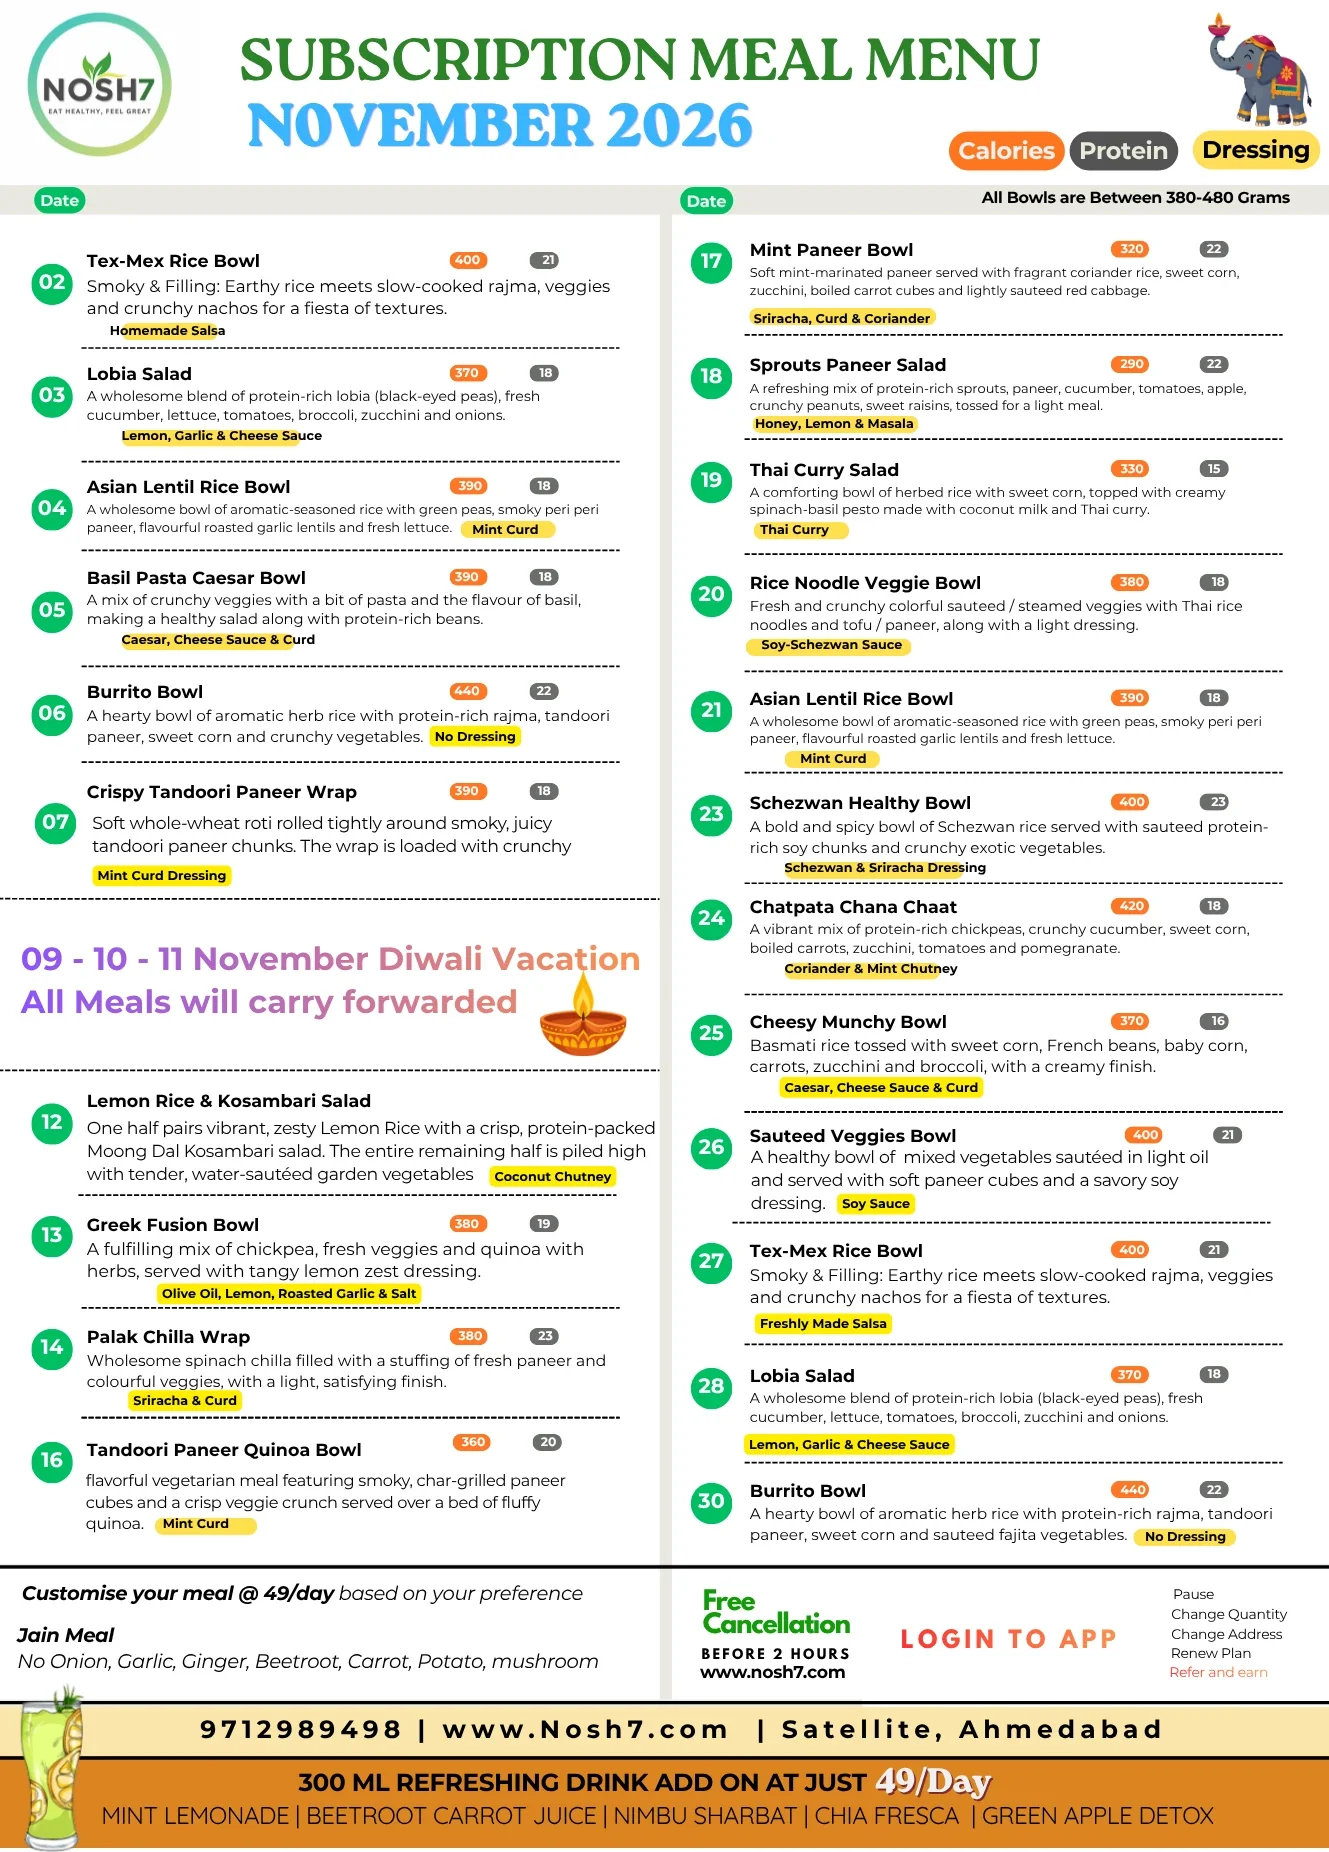
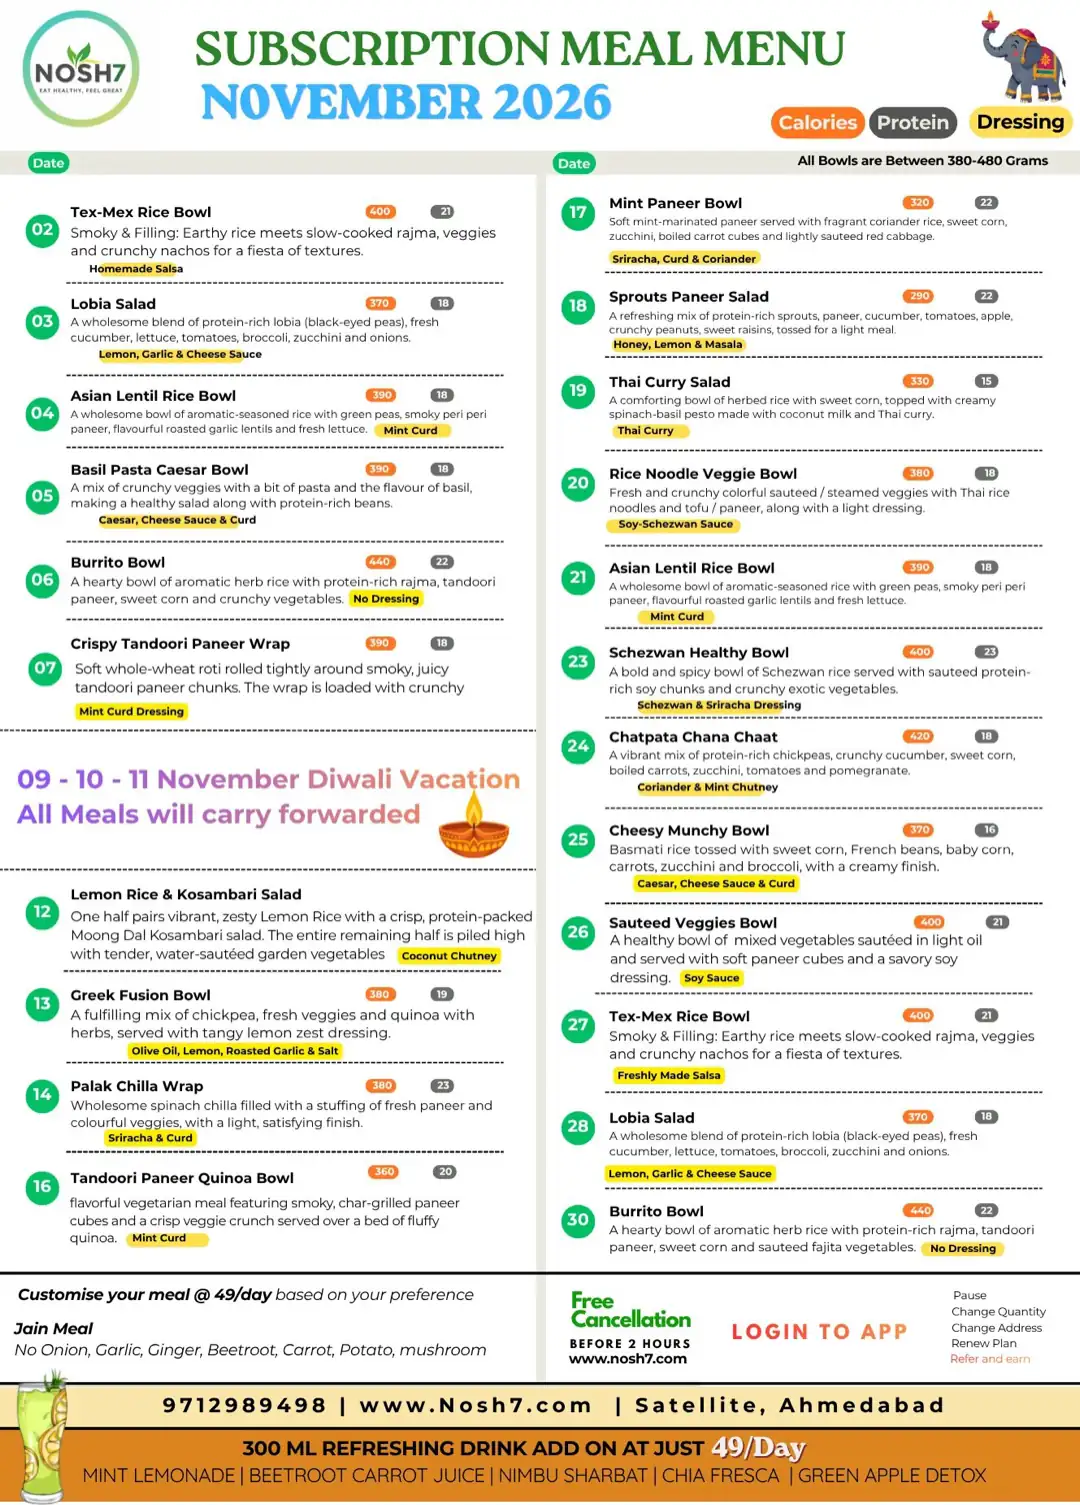
SEO polish: image sizes, lighter menu image, shorter titles and descriptions
- width/height on badge, logo and menu images (home, subscription, menu page)
- November menu WebP 333 KB -> 170 KB at 1080px; menu uploader now makes the
  web image 1080px under 170 KB and writes its size on the subscription page too
- 5 titles cut to 60 chars or less, 13 descriptions to 160 or less

diff --git a/subscription.html b/subscription.html
@@ -577,7 +577,7 @@
 
 <nav>
   <a class="nl" href="/">
-    <img decoding="async" src="/assets/logo.webp" alt="NOSH7 – Eat Healthy Feel Great"/>
+    <img decoding="async" src="/assets/logo.webp" width="196" height="196" alt="NOSH7 - Eat Healthy Feel Great"/>
     <div class="nl-t">NOSH7 <span>Eat Healthy, Feel Great</span></div>
   </a>
   <a href="/" class="nav-back">← Back to Home</a>
@@ -736,11 +736,11 @@
   <p style="text-align:center;margin-top:1.8rem;font-family:'IBM Plex Sans',sans-serif;font-size:.82rem;color:var(--tm);letter-spacing:.03em;"><svg class="ico" viewBox="0 0 24 24" fill="currentColor"><path d="M12 2l2.9 6.26 6.6.96-4.8 4.68 1.13 6.6L12 17.27 5.97 20.5 7.1 13.9 2.3 9.22l6.6-.96L12 2z"/></svg> Rated 4.8 / 5 &nbsp;·&nbsp; Trusted by working professionals since 2023</p>
   <div class="trust-strip" aria-label="Certification and secure payments">
     <div class="ts-item">
-      <span class="ts-chip" style="background:#fff;border:1px solid #eee;border-radius:10px;padding:5px 9px;display:flex;align-items:center;"><img src="/assets/fssai-logo.svg" alt="FSSAI logo" style="display:block;height:24px;width:auto;" decoding="async" /></span>
+      <span class="ts-chip" style="background:#fff;border:1px solid #eee;border-radius:10px;padding:5px 9px;display:flex;align-items:center;"><img src="/assets/fssai-logo.svg" width="82" height="24" alt="FSSAI logo" style="display:block;height:24px;width:auto;" decoding="async" /></span>
       <span class="ts-txt"><span class="ts-title">FSSAI Registered Kitchen</span><span class="ts-sub">Lic. No. 20723038000600</span></span>
     </div>
     <div class="ts-item">
-      <span class="ts-chip" style="background:#fff;border:1px solid #eee;border-radius:10px;padding:5px 9px;display:flex;align-items:center;"><img src="/assets/razorpay-logo.svg" alt="Razorpay logo" style="display:block;height:24px;width:auto;" decoding="async" /></span>
+      <span class="ts-chip" style="background:#fff;border:1px solid #eee;border-radius:10px;padding:5px 9px;display:flex;align-items:center;"><img src="/assets/razorpay-logo.svg" width="113" height="24" alt="Razorpay logo" style="display:block;height:24px;width:auto;" decoding="async" /></span>
       <span class="ts-txt"><span class="ts-title">Payments by Razorpay</span><span class="ts-sub">100% secure &middot; UPI, cards, netbanking</span></span>
     </div>
     <div class="ts-item">
@@ -911,10 +911,10 @@
   <p class="section-sub">We share the complete monthly menu in advance - know what's fresh and coming your way.</p>
   <div class="menu-display">
     <div class="menu-box">
-      <img decoding="async" src="/assets/nosh7-salad-meal-menu-november-2026-ahmedabad.webp"
+      <img decoding="async" src="/assets/nosh7-salad-meal-menu-november-2026-ahmedabad.webp" width="1080" height="1505"
            alt="NOSH7 November 2026 Salad Menu – Pure Veg Ahmedabad"
            loading="lazy"
-           style="width:100%;display:block;cursor:zoom-in;border-radius:1.5rem 1.5rem 0 0;"
+           style="width:100%;height:auto;display:block;cursor:zoom-in;border-radius:1.5rem 1.5rem 0 0;"
            onclick="window.open('/assets/nosh7-salad-meal-menu-november-2026-ahmedabad.jpg','_blank')" />
       <div class="menu-box-body">
         <div class="menu-box-title">November 2026 Salad Menu</div>

diff --git a/index.html b/index.html
@@ -22,7 +22,7 @@
   <meta charset="UTF-8" />
   <meta name="viewport" content="width=device-width, initial-scale=1.0" />
   <title>Healthy Meal Delivery in Ahmedabad | Diet &amp; Protein | NOSH7</title>
-  <meta name="description" content="Ahmedabad's #1 healthy meal delivery - diet food &amp; high protein pure veg meals, fresh daily. 5-day trial ₹1,250, monthly ₹4,999 (₹200/day). Satellite, Prahlad Nagar." />
+  <meta name="description" content="Healthy pure veg meal delivery in Ahmedabad: diet food and high protein bowls, fresh daily. 5-day trial ₹1,250, monthly ₹4,999. Satellite, Prahlad Nagar." />
   <meta name="keywords" content="healthy meal in Ahmedabad, diet food in Ahmedabad, protein rich food in Ahmedabad, high protein food in Ahmedabad, high protein vegetarian food Ahmedabad, salad delivery Ahmedabad, healthy meal subscription Ahmedabad, cloud kitchen Ahmedabad, pure veg salad Gujarat, NOSH7, सलाद डिलीवरी अहमदाबाद, healthy tiffin Ahmedabad, weight loss meal Ahmedabad, Jain friendly salad" />
   <meta name="robots" content="index, follow" />
   <link rel="canonical" href="https://nosh7.in/" />
@@ -1271,8 +1271,8 @@
       </div>
     </div>
     <div class="hero-certs" aria-label="Certification and secure payments">
-      <span class="hc-item"><img src="/assets/fssai-logo.svg" alt="FSSAI" style="height:30px;width:auto;display:block;" decoding="async" /> Lic. No. 20723038000600</span>
-      <span class="hc-item"><img src="/assets/razorpay-logo.svg" alt="Razorpay" style="height:21px;width:auto;display:block;" decoding="async" /> Secure Payments</span>
+      <span class="hc-item"><img src="/assets/fssai-logo.svg" width="102" height="30" alt="FSSAI" style="height:30px;width:auto;display:block;" decoding="async" /> Lic. No. 20723038000600</span>
+      <span class="hc-item"><img src="/assets/razorpay-logo.svg" width="99" height="21" alt="Razorpay" style="height:21px;width:auto;display:block;" decoding="async" /> Secure Payments</span>
     </div>
   </div>
 
@@ -1418,11 +1418,11 @@
 
   <div class="trust-strip" aria-label="Certification and secure payments">
     <div class="ts-item">
-      <span class="ts-chip"><img src="/assets/fssai-logo.svg" alt="FSSAI logo" decoding="async" /></span>
+      <span class="ts-chip"><img src="/assets/fssai-logo.svg" width="150" height="44" alt="FSSAI logo" decoding="async" /></span>
       <span class="ts-txt"><span class="ts-title">FSSAI Registered Kitchen</span><span class="ts-sub">Lic. No. 20723038000600</span></span>
     </div>
     <div class="ts-item">
-      <span class="ts-chip"><img src="/assets/razorpay-logo.svg" alt="Razorpay logo" decoding="async" /></span>
+      <span class="ts-chip"><img src="/assets/razorpay-logo.svg" width="1896" height="401" alt="Razorpay logo" decoding="async" /></span>
       <span class="ts-txt"><span class="ts-title">Payments by Razorpay</span><span class="ts-sub">100% secure &middot; UPI, cards, netbanking</span></span>
     </div>
     <div class="ts-item">

diff --git a/cms-worker/worker.js b/cms-worker/worker.js
@@ -262,11 +262,14 @@ function rewriteMenuMonth(text, oldM, oldY, newM, newY) {
 
 // The artwork's aspect ratio changes month to month, so keep the declared
 // sizes honest: wrong width/height attributes cause layout shift.
-function patchMenuDims(text, d) {
+function patchMenuDims(text, d, withOg) {
   let t = text;
-  t = t.replace(/(<meta property="og:image:width" content=")\d+(")/, '$1' + d.ogW + '$2');
-  t = t.replace(/(<meta property="og:image:height" content=")\d+(")/, '$1' + d.ogH + '$2');
-  t = t.replace(/(<img src="\/assets\/nosh7-salad-meal-menu-[a-z]+-\d{4}-ahmedabad\.webp"[\s\S]{0,400}?)width="\d+" height="\d+"/,
+  if (withOg) {
+    t = t.replace(/(<meta property="og:image:width" content=")\d+(")/, '$1' + d.ogW + '$2');
+    t = t.replace(/(<meta property="og:image:height" content=")\d+(")/, '$1' + d.ogH + '$2');
+  }
+  // Every menu <img> (menu page and subscription page) carries the web image's real size.
+  t = t.replace(/(<img\b[^>]*?src="\/assets\/nosh7-salad-meal-menu-[a-z]+-\d{4}-ahmedabad\.webp"[^>]*?)width="\d+" height="\d+"/g,
                 '$1width="' + d.w + '" height="' + d.h + '"');
   return t;
 }
@@ -618,7 +621,7 @@ export default {
         if (!cur.ok || !cur.data.content) return json({ error: 'Could not read ' + pg + ': ' + (cur.data.message || cur.status) }, 502);
         const orig = b64decode(cur.data.content);
         const r = rewriteMenuMonth(orig, oldM, oldY, newM, newY);
-        let text = pg === 'menu/index.html' ? patchMenuDims(r.text, dims) : r.text;
+        let text = patchMenuDims(r.text, dims, pg === 'menu/index.html');
         if (r.hits === 0) {
           return json({ error: 'Nothing on ' + pg + ' matched the ' + titleCase(oldM) + ' ' + oldY + ' menu, so nothing was changed. The page may have been edited by hand - ask the developer to check it.' }, 409);
         }
@@ -900,11 +903,12 @@ function buildMenuAssets(file,cb,onerr){
       return {cv:cv,w:tw,h:th};
     }
     var full=paint(Math.min(1400,img.width));
+    var web=paint(Math.min(1080,img.width));
     var og=paint(Math.min(1200,img.width));
     encodeCanvas(full.cv,"image/jpeg",[0.85,0.78,0.7,0.62],1000*1024,function(jpg){
-      encodeCanvas(full.cv,"image/webp",[0.85,0.78,0.7,0.62],550*1024,function(webp){
+      encodeCanvas(web.cv,"image/webp",[0.82,0.75,0.68,0.6,0.52,0.45],170*1024,function(webp){
         encodeCanvas(og.cv,"image/jpeg",[0.7,0.62,0.55],500*1024,function(share){
-          cb({w:full.w,h:full.h,ogW:og.w,ogH:og.h,jpg:jpg,webp:webp,og:share,srcW:img.width,srcH:img.height});
+          cb({w:web.w,h:web.h,ogW:og.w,ogH:og.h,jpg:jpg,webp:webp,og:share,srcW:img.width,srcH:img.height});
         },onerr);
       },onerr);
     },onerr);

diff --git a/blog-stop-chasing-protein-start-chasing-nutri-ahmedabad.html b/blog-stop-chasing-protein-start-chasing-nutri-ahmedabad.html
@@ -12,7 +12,7 @@
   <meta charset="UTF-8" />
   <meta name="viewport" content="width=device-width, initial-scale=1.0" />
   <title>Protein Isn’t Everything. Why Balanced Nutrition Matters</title>
-  <meta name="description" content="Discover why protein alone doesn’t make a healthy meal. Learn how balanced nutrition with fiber, vitamins, minerals and healthy fats supports better health every day." />
+  <meta name="description" content="Why protein alone doesn’t make a healthy meal, and how fibre, vitamins, minerals and healthy fats work together to support better health every day." />
   <meta name="keywords" content="Healthy Eating Ahmedabad, healthy meal delivery Ahmedabad, NOSH7 Healthy Eating" />
   <link rel="canonical" href="https://nosh7.in/blog-stop-chasing-protein-start-chasing-nutri-ahmedabad.html" />
   <link rel="alternate" hreflang="en-IN" href="https://nosh7.in/blog-stop-chasing-protein-start-chasing-nutri-ahmedabad.html" />
@@ -124,7 +124,7 @@
   <meta property="og:site_name" content="NOSH7" />
   <meta property="og:url" content="https://nosh7.in/blog-stop-chasing-protein-start-chasing-nutri-ahmedabad.html" />
   <meta property="og:title" content="Protein Isn’t Everything. Why Balanced Nutrition Matters" />
-  <meta property="og:description" content="Discover why protein alone doesn’t make a healthy meal. Learn how balanced nutrition with fiber, vitamins, minerals and healthy fats supports better health every day." />
+  <meta property="og:description" content="Why protein alone doesn’t make a healthy meal, and how fibre, vitamins, minerals and healthy fats work together to support better health every day." />
   <meta property="og:image" content="https://nosh7.in/assets/nosh7-og-card-1200x630.jpg" />
   <meta name="twitter:card" content="summary_large_image" />
   <link rel="icon" href="/assets/logo.svg" type="image/svg+xml">

diff --git a/blog-eating-healthy-isn-t-enough-your-body-mu-ahmedabad.html b/blog-eating-healthy-isn-t-enough-your-body-mu-ahmedabad.html
@@ -11,7 +11,7 @@
   </script>
   <meta charset="UTF-8" />
   <meta name="viewport" content="width=device-width, initial-scale=1.0" />
-  <title>Healthy Food Isn’t Enough. Nutrient Absorption Matters | NOSH7</title>
+  <title>Healthy Food Isn’t Enough: Absorption Matters | NOSH7</title>
   <meta name="description" content="Eating healthy is only the first step. Learn how digestion, gut health, sleep, hydration and lifestyle affect nutrient absorption and your overall health." />
   <meta name="keywords" content="Nutrition Basics Ahmedabad, healthy meal delivery Ahmedabad, NOSH7 Nutrition Basics" />
   <link rel="canonical" href="https://nosh7.in/blog-eating-healthy-isn-t-enough-your-body-mu-ahmedabad.html" />
@@ -123,7 +123,7 @@
   <meta property="og:type" content="article" />
   <meta property="og:site_name" content="NOSH7" />
   <meta property="og:url" content="https://nosh7.in/blog-eating-healthy-isn-t-enough-your-body-mu-ahmedabad.html" />
-  <meta property="og:title" content="Healthy Food Isn’t Enough. Nutrient Absorption Matters | NOSH7" />
+  <meta property="og:title" content="Healthy Food Isn’t Enough: Absorption Matters | NOSH7" />
   <meta property="og:description" content="Eating healthy is only the first step. Learn how digestion, gut health, sleep, hydration and lifestyle affect nutrient absorption and your overall health." />
   <meta property="og:image" content="https://nosh7.in/assets/nosh7-og-card-1200x630.jpg" />
   <meta name="twitter:card" content="summary_large_image" />

diff --git a/blog-diabetes-ahmedabad.html b/blog-diabetes-ahmedabad.html
@@ -11,7 +11,7 @@
   </script>
   <meta charset="UTF-8" />
   <meta name="viewport" content="width=device-width, initial-scale=1.0" />
-  <title>Low-Glycaemic Meal Delivery in Ahmedabad for Diabetics | NOSH7</title>
+  <title>Low-GI Meal Delivery in Ahmedabad for Diabetics | NOSH7</title>
   <meta name="description" content="Managing diabetes through diet in Ahmedabad. NOSH7 delivers low-GI, high-fibre vegetarian meals daily. Zero added sugar, no refined carbs. From Rs. 200/day." />
   <meta name="keywords" content="diabetes diet Ahmedabad, low glycaemic food Ahmedabad, diabetic meal delivery Ahmedabad, blood sugar diet Ahmedabad, NOSH7 diabetes plan" />
   <link rel="canonical" href="https://nosh7.in/blog-diabetes-ahmedabad.html" />
@@ -119,7 +119,7 @@
  "@id": "https://nosh7.in/blog-diabetes-ahmedabad.html#breadcrumb"
 }
 </script>
-  <meta property="og:title" content="Low-Glycaemic Meal Delivery in Ahmedabad for Diabetics | NOSH7" />
+  <meta property="og:title" content="Low-GI Meal Delivery in Ahmedabad for Diabetics | NOSH7" />
   <meta property="og:description" content="Managing diabetes through diet in Ahmedabad. NOSH7 delivers low-GI, high-fibre vegetarian meals daily. Zero added sugar, no refined carbs. From Rs. 200/day." />
   <meta property="og:url" content="https://nosh7.in/blog-diabetes-ahmedabad.html" />
   <meta property="og:type" content="article" />

diff --git a/blog.html b/blog.html
@@ -11,7 +11,7 @@
   </script>
   <meta charset="UTF-8" />
   <meta name="viewport" content="width=device-width, initial-scale=1.0" />
-  <title>Health Blog | NOSH7 Ahmedabad - Diet, Diabetes, PCOD, Thyroid</title>
+  <title>Health Blog: Diet, Diabetes, PCOD, Thyroid | NOSH7</title>
   <meta name="description" content="Science-backed health articles for Ahmedabad. Guides on diabetes diet, PCOD, thyroid support, weight loss, and healthy living. NOSH7 pure veg meal delivery." />
   <link rel="canonical" href="https://nosh7.in/blog.html" />
   <script type="application/ld+json">
@@ -115,7 +115,7 @@
   <meta property="og:type" content="website" />
   <meta property="og:site_name" content="NOSH7" />
   <meta property="og:url" content="https://nosh7.in/blog.html" />
-  <meta property="og:title" content="Health Blog | NOSH7 Ahmedabad - Diet, Diabetes, PCOD, Thyroid" />
+  <meta property="og:title" content="Health Blog: Diet, Diabetes, PCOD, Thyroid | NOSH7" />
   <meta property="og:description" content="Science-backed health articles for Ahmedabad. Guides on diabetes diet, PCOD, thyroid support, weight loss, and healthy living. NOSH7 pure veg meal delivery." />
   <meta property="og:image" content="https://nosh7.in/assets/nosh7-og-card-1200x630.jpg" />
   <meta name="twitter:card" content="summary_large_image" />

diff --git a/healthy-meal-near-me-ahmedabad.html b/healthy-meal-near-me-ahmedabad.html
@@ -12,7 +12,7 @@
   <meta charset="UTF-8" />
   <meta name="viewport" content="width=device-width, initial-scale=1.0" />
   <title>Healthy Meal Near Me Ahmedabad | Fresh Meal Delivery | NOSH7</title>
-  <meta name="description" content="Healthy meal delivery near you in Ahmedabad. Fresh salad bowls delivered same-day from ₹200/day. Satellite, Prahlad Nagar, Bodakdev, Vastrapur, and more. Order now." />
+  <meta name="description" content="Healthy meal delivery near you in Ahmedabad. Fresh salad bowls delivered same-day from ₹200/day across Satellite, Prahlad Nagar, Bodakdev and Vastrapur." />
   <meta name="keywords" content="healthy meal near me, healthy meal Ahmedabad, fresh meal delivery Ahmedabad, healthy food near me, salad delivery near me, nutritious meal Ahmedabad" />
   <link rel="canonical" href="https://nosh7.in/healthy-meal-near-me-ahmedabad.html" />
   <link rel="alternate" hreflang="en-IN" href="https://nosh7.in/healthy-meal-near-me-ahmedabad.html" />

diff --git a/healthy-tiffin-ahmedabad.html b/healthy-tiffin-ahmedabad.html
@@ -11,7 +11,7 @@
   </script>
   <meta charset="UTF-8" /><meta name="viewport" content="width=device-width, initial-scale=1.0" />
   <title>Healthy Tiffin Service in Ahmedabad | Daily Meals | NOSH7</title>
-  <meta name="description" content="Healthy tiffin service in Ahmedabad from ₹200/day. Fresh pure-veg bowls prepared each morning, calorie-counted, no auto-renewal. Satellite, SG Highway, Vastrapur & more." />
+  <meta name="description" content="Healthy tiffin service in Ahmedabad from ₹200/day. Fresh pure-veg bowls made each morning, calorie-counted, no auto-renewal. Satellite, SG Highway &amp; more." />
   <meta name="keywords" content="healthy tiffin service Ahmedabad, healthy tiffin Ahmedabad, diet tiffin Ahmedabad, vegetarian tiffin Ahmedabad, subscription tiffin Ahmedabad, tiffin service near me Ahmedabad, NOSH7 tiffin" />
   <link rel="canonical" href="https://nosh7.in/healthy-tiffin-ahmedabad.html" />
   <script type="application/ld+json">

diff --git a/salad-delivery-ahmedabad.html b/salad-delivery-ahmedabad.html
@@ -11,7 +11,7 @@
   </script>
   <meta charset="UTF-8" /><meta name="viewport" content="width=device-width, initial-scale=1.0" />
   <title>Salad Delivery in Ahmedabad | Fresh Daily Bowls | NOSH7</title>
-  <meta name="description" content="Fresh salad delivery in Ahmedabad from ₹200/day. A new pure-veg salad meal every day, prepared same morning, delivered daily across Satellite, SG Highway, Vastrapur & more." />
+  <meta name="description" content="Fresh salad delivery in Ahmedabad from ₹200/day. A new pure-veg salad meal every day, made the same morning, delivered across Satellite, SG Highway &amp; more." />
   <meta name="keywords" content="salad delivery Ahmedabad, salad bowl Ahmedabad, fresh salad delivery, daily salad delivery Ahmedabad, healthy salad Ahmedabad, salad near me Ahmedabad, NOSH7 salad" />
   <link rel="canonical" href="https://nosh7.in/salad-delivery-ahmedabad.html" />
   <script type="application/ld+json">

diff --git a/blog-food-best-investment-ahmedabad.html b/blog-food-best-investment-ahmedabad.html
@@ -12,7 +12,7 @@
   <meta charset="UTF-8" />
   <meta name="viewport" content="width=device-width, initial-scale=1.0" />
   <title>Your Food Is the Best Investment You Make This Month | NOSH7</title>
-  <meta name="description" content="Healthy eating is the highest-return investment you can make. See how a NOSH7 healthy meal subscription in Ahmedabad buys back time, energy and focus. From ₹200/day." />
+  <meta name="description" content="Healthy eating is the highest-return investment you can make. See how a NOSH7 meal subscription in Ahmedabad buys back time, energy and focus." />
   <meta name="keywords" content="healthy meal subscription Ahmedabad, invest in your health, healthy food investment, salad subscription Ahmedabad, productivity food, meal subscription Gujarat, NOSH7" />
   <link rel="canonical" href="https://nosh7.in/blog-food-best-investment-ahmedabad.html" />
   <script type="application/ld+json">

diff --git a/sola-ahmedabad.html b/sola-ahmedabad.html
@@ -11,7 +11,7 @@
   </script>
   <meta charset="UTF-8" /><meta name="viewport" content="width=device-width, initial-scale=1.0" />
   <title>Salad Delivery in Sola Ahmedabad | Fresh Daily | NOSH7</title>
-  <meta name="description" content="Fresh salad & healthy meal delivery in Sola, Ahmedabad. NOSH7 delivers nutritionist-designed bowls daily near Science City & Thaltej. From ₹200/day. Trial ₹1,250." />
+  <meta name="description" content="Fresh salad &amp; healthy meal delivery in Sola, Ahmedabad. Nutritionist-designed bowls daily near Science City &amp; Thaltej. From ₹200/day, trial ₹1,250." />
   <meta name="keywords" content="salad delivery Sola Ahmedabad, healthy food delivery Sola, healthy meal Sola Ahmedabad, tiffin Sola Ahmedabad, diet food Sola, Science City healthy food, NOSH7 Sola" />
   <link rel="canonical" href="https://nosh7.in/sola-ahmedabad.html" />
   <script type="application/ld+json">
